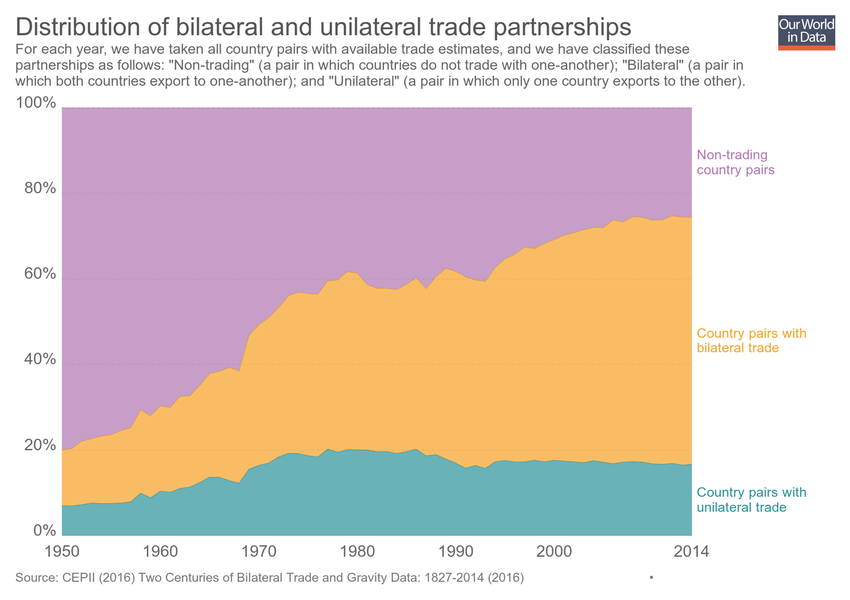
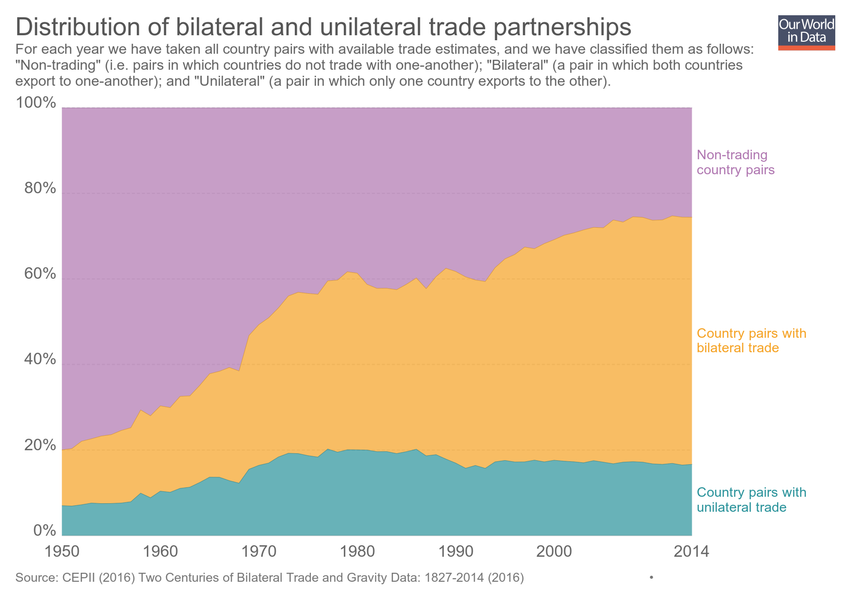
Updating chart distribution-of-bilateral-and-unilateral-trade-partnerships

Changed region(s): [[0.0, 0.06, 0.8871, 0.15]]

diff --git a/grapher/distribution-of-bilateral-and-unilateral-trade-partnerships.html b/grapher/distribution-of-bilateral-and-unilateral-trade-partnerships.html
@@ -1,4 +1,4 @@
-<!doctype html><html><head><meta name="viewport" content="width=device-width, initial-scale=1" /><title>Distribution of bilateral and unilateral trade partnerships - Our World in Data</title><meta name="description" content="For each year, we have taken all country pairs with available trade estimates, and we have classified these partnerships as follows: &quot;Non-trading&quot; (a pair in which countries do not trade with one-another); &quot;Bilateral&quot; (a pair in which both countries export to one-another); and &quot;Unilateral&quot; (a pair in which only one country exports to the other)." /><link rel="canonical" href="https://ourworldindata.org/grapher/distribution-of-bilateral-and-unilateral-trade-partnerships" /><meta property="fb:app_id" content="1149943818390250" /><meta property="og:url" content="https://ourworldindata.org/grapher/distribution-of-bilateral-and-unilateral-trade-partnerships" /><meta property="og:title" content="Distribution of bilateral and unilateral trade partnerships" /><meta property="og:description" content="For each year, we have taken all country pairs with available trade estimates, and we have classified these partnerships as follows: &quot;Non-trading&quot; (a pair in which countries do not trade with one-another); &quot;Bilateral&quot; (a pair in which both countries export to one-another); and &quot;Unilateral&quot; (a pair in which only one country exports to the other)." /><meta property="og:image" content="https://ourworldindata.org/grapher/exports/distribution-of-bilateral-and-unilateral-trade-partnerships.png?v=7" /><meta property="og:image:width" content="850" /><meta property="og:image:height" content="600" /><meta property="og:site_name" content="Our World in Data" /><meta name="twitter:card" content="summary_large_image" /><meta name="twitter:site" content="@OurWorldInData" /><meta name="twitter:creator" content="@OurWorldInData" /><meta name="twitter:title" content="Distribution of bilateral and unilateral trade partnerships" /><meta name="twitter:description" content="For each year, we have taken all country pairs with available trade estimates, and we have classified these partnerships as follows: &quot;Non-trading&quot; (a pair in which countries do not trade with one-another); &quot;Bilateral&quot; (a pair in which both countries export to one-another); and &quot;Unilateral&quot; (a pair in which only one country exports to the other)." /><meta name="twitter:image" content="https://ourworldindata.org/grapher/exports/distribution-of-bilateral-and-unilateral-trade-partnerships.png?v=7" /><style>
+<!doctype html><html><head><meta name="viewport" content="width=device-width, initial-scale=1" /><title>Distribution of bilateral and unilateral trade partnerships - Our World in Data</title><meta name="description" content="For each year we have taken all country pairs with available trade estimates, and we have classified them as follows: &quot;Non-trading&quot; (i.e. pairs in which countries do not trade with one-another); &quot;Bilateral&quot; (a pair in which both countries export to one-another); and &quot;Unilateral&quot; (a pair in which only one country exports to the other)." /><link rel="canonical" href="https://ourworldindata.org/grapher/distribution-of-bilateral-and-unilateral-trade-partnerships" /><meta property="fb:app_id" content="1149943818390250" /><meta property="og:url" content="https://ourworldindata.org/grapher/distribution-of-bilateral-and-unilateral-trade-partnerships" /><meta property="og:title" content="Distribution of bilateral and unilateral trade partnerships" /><meta property="og:description" content="For each year we have taken all country pairs with available trade estimates, and we have classified them as follows: &quot;Non-trading&quot; (i.e. pairs in which countries do not trade with one-another); &quot;Bilateral&quot; (a pair in which both countries export to one-another); and &quot;Unilateral&quot; (a pair in which only one country exports to the other)." /><meta property="og:image" content="https://ourworldindata.org/grapher/exports/distribution-of-bilateral-and-unilateral-trade-partnerships.png?v=8" /><meta property="og:image:width" content="850" /><meta property="og:image:height" content="600" /><meta property="og:site_name" content="Our World in Data" /><meta name="twitter:card" content="summary_large_image" /><meta name="twitter:site" content="@OurWorldInData" /><meta name="twitter:creator" content="@OurWorldInData" /><meta name="twitter:title" content="Distribution of bilateral and unilateral trade partnerships" /><meta name="twitter:description" content="For each year we have taken all country pairs with available trade estimates, and we have classified them as follows: &quot;Non-trading&quot; (i.e. pairs in which countries do not trade with one-another); &quot;Bilateral&quot; (a pair in which both countries export to one-another); and &quot;Unilateral&quot; (a pair in which only one country exports to the other)." /><meta name="twitter:image" content="https://ourworldindata.org/grapher/exports/distribution-of-bilateral-and-unilateral-trade-partnerships.png?v=8" /><style>
         html, body {
             height: 100%;
             margin: 0;
@@ -20,8 +20,8 @@
         }
     </style><noscript><style>
                     figure { display: none !important; }
-                </style></noscript><link rel="stylesheet" href="https://ourworldindata.org/grapher/assets/commons.bundle.f1a1d21b78c2ceaa055d.css" /><link rel="preload" href="/grapher/data/variables/97653+97651+97652.json?v=7" as="fetch" crossorigin /></head><body class="singleChart"><figure data-grapher-src="/grapher/distribution-of-bilateral-and-unilateral-trade-partnerships"></figure><noscript id="fallback"><img src="/grapher/exports/distribution-of-bilateral-and-unilateral-trade-partnerships.svg" /><p>Interactive visualization requires JavaScript</p></noscript><script src="https://cdn.polyfill.io/v2/polyfill.min.js?features=es6,fetch"></script><script src="https://ourworldindata.org/grapher/assets/commons.bundle.f1a1d21b78c2ceaa055d.js"></script><script src="https://ourworldindata.org/grapher/assets/charts.bundle.f1a1d21b78c2ceaa055d.js"></script><script>
-        var jsonConfig = {"id":2848,"map":{"projection":"World","colorSchemeLabels":[],"colorSchemeValues":[],"customNumericColors":[],"customCategoryColors":{},"customCategoryLabels":{},"customHiddenCategories":{}},"tab":"chart","slug":"distribution-of-bilateral-and-unilateral-trade-partnerships","type":"StackedArea","title":"Distribution of bilateral and unilateral trade partnerships","xAxis":{"scaleType":"linear"},"yAxis":{"min":0,"scaleType":"linear"},"version":7,"subtitle":"For each year, we have taken all country pairs with available trade estimates, and we have classified these partnerships as follows: \"Non-trading\" (a pair in which countries do not trade with one-another); \"Bilateral\" (a pair in which both countries export to one-another); and \"Unilateral\" (a pair in which only one country exports to the other).","hasMapTab":false,"stackMode":"relative","dimensions":[{"display":{"name":"Country pairs with bilateral trade"},"property":"y","variableId":97653},{"display":{"name":"Non-trading country pairs"},"property":"y","variableId":97651},{"display":{"name":"Country pairs with unilateral trade"},"property":"y","variableId":97652}],"hasChartTab":true,"isPublished":true,"selectedData":[{"color":"#b077b1","index":1,"entityId":355},{"color":"#f6a324","index":0,"entityId":355},{"color":"#2a939b","index":2,"entityId":355}],"addCountryMode":"change-country","hideRelativeToggle":true,"hideTitleAnnotation":true};
+                </style></noscript><link rel="stylesheet" href="https://ourworldindata.org/grapher/assets/commons.bundle.f1a1d21b78c2ceaa055d.css" /><link rel="preload" href="/grapher/data/variables/97653+97651+97652.json?v=8" as="fetch" crossorigin /></head><body class="singleChart"><figure data-grapher-src="/grapher/distribution-of-bilateral-and-unilateral-trade-partnerships"></figure><noscript id="fallback"><img src="/grapher/exports/distribution-of-bilateral-and-unilateral-trade-partnerships.svg" /><p>Interactive visualization requires JavaScript</p></noscript><script src="https://cdn.polyfill.io/v2/polyfill.min.js?features=es6,fetch"></script><script src="https://ourworldindata.org/grapher/assets/commons.bundle.f1a1d21b78c2ceaa055d.js"></script><script src="https://ourworldindata.org/grapher/assets/charts.bundle.f1a1d21b78c2ceaa055d.js"></script><script>
+        var jsonConfig = {"id":2848,"map":{"projection":"World","colorSchemeLabels":[],"colorSchemeValues":[],"customNumericColors":[],"customCategoryColors":{},"customCategoryLabels":{},"customHiddenCategories":{}},"tab":"chart","slug":"distribution-of-bilateral-and-unilateral-trade-partnerships","type":"StackedArea","title":"Distribution of bilateral and unilateral trade partnerships","xAxis":{"scaleType":"linear"},"yAxis":{"min":0,"scaleType":"linear"},"version":8,"subtitle":"For each year we have taken all country pairs with available trade estimates, and we have classified them as follows: \"Non-trading\" (i.e. pairs in which countries do not trade with one-another); \"Bilateral\" (a pair in which both countries export to one-another); and \"Unilateral\" (a pair in which only one country exports to the other).","hasMapTab":false,"stackMode":"relative","dimensions":[{"display":{"name":"Country pairs with bilateral trade"},"property":"y","variableId":97653},{"display":{"name":"Non-trading country pairs"},"property":"y","variableId":97651},{"display":{"name":"Country pairs with unilateral trade"},"property":"y","variableId":97652}],"hasChartTab":true,"isPublished":true,"selectedData":[{"color":"#b077b1","index":1,"entityId":355},{"color":"#f6a324","index":0,"entityId":355},{"color":"#2a939b","index":2,"entityId":355}],"addCountryMode":"change-country","hideRelativeToggle":true,"hideTitleAnnotation":true};
         var figure = document.getElementsByTagName("figure")[0];
         try {
             window.App = {};
